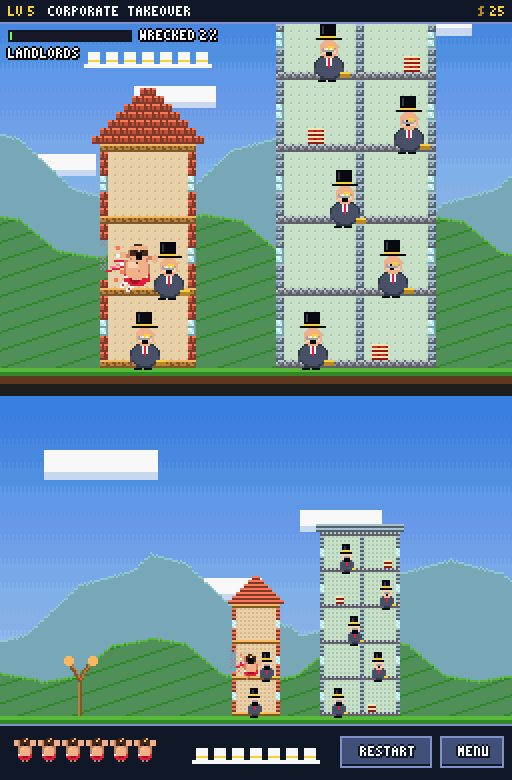
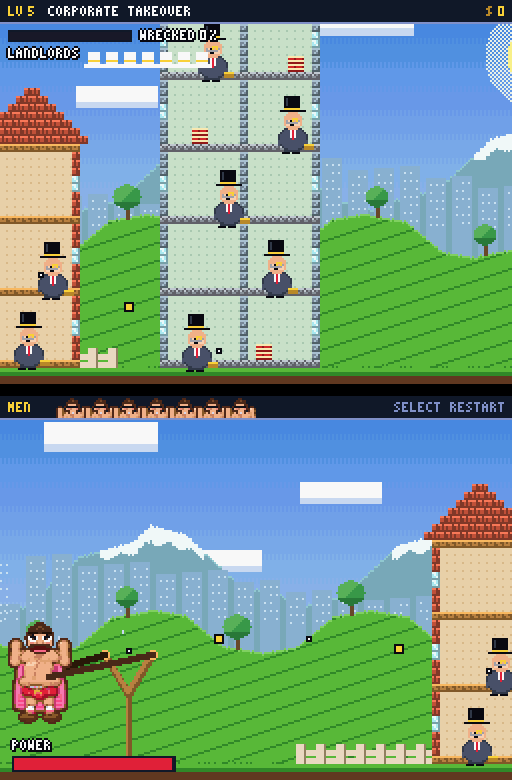
DS: snow-capped mountains, city skyline, trees, fence and grass tufts; docs for the graphics pass
Claude-Session: https://claude.ai/code/session_01Xd63cwPUy2htr1szwp1Az4

diff --git a/ds/source/gfx.c b/ds/source/gfx.c
@@ -168,6 +168,9 @@ static void make_palette(void){
   setc(C_SUN, 255, 240, 140);    setc(C_SUNHALO, 235, 240, 235);
   setc(C_HILL1, 120, 170, 190);  setc(C_HILL2, 80, 150, 90);  setc(C_HILL3, 150, 200, 215);
   setc(C_GRASS, 90, 190, 60);    setc(C_GRASS2, 55, 140, 45);
+  setc(C_SNOW, 244, 249, 255);   setc(C_CITY, 143, 176, 212);  setc(C_CITY2, 205, 228, 246); setc(C_TREE, 63, 158, 74);   setc(C_TREE2, 88, 182, 88);
+  setc(C_TREE3, 40, 120, 56);    setc(C_TRUNK, 107, 74, 43);    setc(C_FENCE, 232, 220, 196); setc(C_FENCE2, 150, 130, 98);
+  setc(C_FL1, 255, 107, 138);    setc(C_FL2, 255, 210, 63);     setc(C_GRASS3, 130, 210, 100); setc(C_SUN2, 255, 252, 214);
   setc(C_DIRT, 122, 82, 50);     setc(C_DIRT2, 96, 62, 38);
   setc(C_SKIN, 244, 183, 142);   setc(C_SKIN2, 205, 135, 100);  setc(C_SKIN3, 255, 215, 180);
   setc(C_RED, 224, 36, 58);      setc(C_RED2, 160, 20, 40);     setc(C_WHITE, 255, 255, 255);
@@ -273,12 +276,31 @@ static void make_bg(void){
       }
     }
   }
-  /* two hill layers */
+  /* far mountains with snow caps */
   for(int x = 0; x < BGW; x++){
     int h1 = 126 - (tri(x, 150) * 3 / 5 + tri(x + 40, 53) / 3);
-    int h2 = 148 - (tri(x + 90, 110) / 2 + tri(x, 37) / 3);
     for(int y = h1; y < BGH; y++) bg[y * BGW + x] = (u8)(y == h1 ? C_HILL3 : C_HILL1);
-    for(int y = h2; y < BGH; y++) bg[y * BGW + x] = (u8)(y == h2 ? C_GRASS : ((y + x / 3) % 9 == 0 ? C_GRASS2 : C_HILL2));
+    if(h1 < 92){ int cap = 3 + tri(x, 12) / 2 + (92 - h1) / 3; for(int y = h1; y < h1 + cap; y++) bg[y * BGW + x] = C_SNOW; }   /* snow: a jagged cap on the high peaks */
+  }
+  /* a distant city between the mountains and the hills */
+  for(int x = 0; x < BGW; x += 13){
+    int hh = 14 + ((x * 29 + (x >> 3) * 7) % 30), top = 132 - hh;
+    for(int y = top; y < BGH; y++) for(int i = 0; i < 10 && x + i < BGW; i++) bg[y * BGW + x + i] = C_CITY;
+    for(int y = top + 3; y < 128; y += 4) for(int i = 2; i < 9; i += 3) if((x + y + i) % 5) bg[y * BGW + x + i] = C_CITY2;
+  }
+  /* rolling hills with trees */
+  for(int x = 0; x < BGW; x++){
+    int h2 = 148 - (tri(x + 90, 110) / 2 + tri(x, 37) / 3);
+    for(int y = h2; y < BGH; y++) bg[y * BGW + x] = (u8)(y == h2 ? C_GRASS3 : ((y + x / 3) % 9 == 0 ? C_GRASS2 : C_GRASS));
+  }
+  for(int x = 18; x < BGW - 10; x += 41 + ((x * 13) % 23)){
+    int h2 = 148 - (tri(x + 90, 110) / 2 + tri(x, 37) / 3), r = 5 + (x % 3);
+    for(int y = h2 - 4; y < h2 + 1; y++) bg[y * BGW + x] = C_TRUNK, bg[y * BGW + x + 1] = C_TRUNK;
+    for(int j = -r; j <= r; j++) for(int i = -r - 2; i <= r + 2; i++){
+      int cx = x, cy = h2 - 5 - r;
+      int d = (i * i) * 3 / 4 + j * j;
+      if(d <= r * r){ int px = cx + i, py = cy + j; if(px >= 0 && px < BGW && py >= 0) bg[py * BGW + px] = (u8)(j > r / 3 ? C_TREE3 : (i + j < 0 ? C_TREE2 : C_TREE)); }
+    }
   }
   /* shifted copies: bgs[c][i] = bg[i + c] */
   for(int c = 1; c < 4; c++) memcpy(bgs[c], bg + c, BGW * BGH - c);
@@ -309,6 +331,23 @@ void gfx_ground(const View *v){
   for(int y = gy + 4; y < 192; y++){
     memset(&v->buf[y * 256], (y - gy) & 4 ? C_DIRT2 : C_DIRT, 256);
     for(int x = ((y * 37) & 15); x < 256; x += 23) gfx_px(v->buf, x, y, C_DIRT2);   /* pebbles */
+  }
+  /* grass blades and the odd flower along the edge (world anchored, so they scroll with the ground) */
+  for(int x = 0; x < 256; x++){
+    int wx = x + v->cx, hsh = (wx * 2654435761u) >> 28;
+    if(hsh < 5) gfx_px(v->buf, x, gy - 1 - (hsh & 1), hsh & 1 ? C_GRASS : C_GRASS2);
+    if(hsh == 15 && (wx % 7) == 3) gfx_px(v->buf, x, gy - 2, (wx / 7) & 1 ? C_FL1 : C_FL2);
+  }
+  /* the fence (cells 37..70) */
+  int ppc = v->ppc, fx0 = 37 * ppc - v->cx, fx1 = 70 * ppc - v->cx;
+  if(fx1 > 0 && fx0 < 256 && gy > 6){
+    int ph = ppc * 5 / 2, step = ppc * 9 / 4 + 1;
+    gfx_rect(v->buf, fx0, gy - ppc * 7 / 4, fx1 - fx0, ppc / 2 + 1, C_FENCE);
+    gfx_rect(v->buf, fx0, gy - ppc * 3 / 4, fx1 - fx0, ppc / 2 + 1, C_FENCE);
+    for(int px = fx0; px < fx1; px += step){
+      gfx_rect(v->buf, px, gy - ph, ppc, ph, C_FENCE);
+      gfx_rect(v->buf, px + ppc, gy - ph, 1, ph, C_FENCE2);
+    }
   }
 }
 

diff --git a/ds/source/gfx.h b/ds/source/gfx.h
@@ -30,6 +30,7 @@ enum {
   C_WALLD0, C_WALLD1, C_WALLD2, C_WALLD3,                    /* wallpaper pattern */
   C_SHADOW, C_GRAY, C_DARK,
   C_MAT = 64,                   /* 64 + mat*5 + {HI,BASE,LO,CRACK,DARK} */
+  C_SNOW = 110, C_CITY, C_CITY2, C_TREE, C_TREE2, C_TREE3, C_TRUNK, C_FENCE, C_FENCE2, C_FL1, C_FL2, C_GRASS3, C_SUN2,   /* scenery: 110..122 */
   C_MAN0 = 160                  /* 160.. : the man's own palette (art/manspr.h) */
 };
 enum { SH_HI, SH_BASE, SH_LO, SH_CRACK, SH_DARK };

diff --git a/PORTING.md b/PORTING.md
@@ -244,3 +244,14 @@ OOPS gag (consoles): the rare version of the cape taunt, as in the HTML (1 in MI
 (boxers slip, wobble, EEK, cover up, SNAP, WHEW) into art/manspr.h; art/manidle.h has GAG_OOPS (only ever picked as a cape taunt) and the new fx
 FX_EEK / FX_SNAP / FX_WHEW.  DS: two new tone effects (SFX_EEK, SFX_WHEW) plus EEK! / SNAP! popups, SNAP reuses the slap + boing sounds.  DC: sweat / spark
 particles.  Shots: docs/ds_oops_sheet.png, docs/dc_oops_sheet.png.  Run on a desktop test setup only; no real DS / Dreamcast / emulator, sounds never heard.
+
+
+GRAPHICS pass (both consoles).
+Dreamcast: no more flat quads.  tools/gen_dc_art.py bakes textures from the HTML's own drawing into art/dcart.h (run-length coded 16 bit pixels): a sky (RGB565), a
+mountains / city / hills / ground layer with the sling post (ARGB1555), an atlas (block tiles for every material x variant x damage, landlord, cloud, soft puff, stars, head icon,
+font), every man frame smooth at 1.6x the drawn size (ARGB4444, no towel: the cloth is still simulated), and an 852x480 title picture (RGB565).  dreamcast/main.c draws textured
+quads in the translucent list, keyed by z; the man is a small mesh when he jiggles; the HUD, banners, hint and end panels use the baked font.  Texture memory is about 3.8 MB
+(the title picture is freed when the game starts).  The real KallistiOS build in CI compiles it; nothing has been run on a Dreamcast or an emulator, and test/dc_render.c has a
+small software rasteriser for the PVR textures so the screens can be photographed on a host.  The old flat-rect title data in art/title.h (TITLE_DC_*) is no longer used.
+DS: the procedural backdrop gained snow-capped mountains, a city skyline, trees and rolling hills (palette slots 110..122); the ground gained grass blades, flowers and the fence.
+Screens: docs/dc_*.png, docs/ds_3_eviction_L5.png, docs/dc_art_sheet.png.
